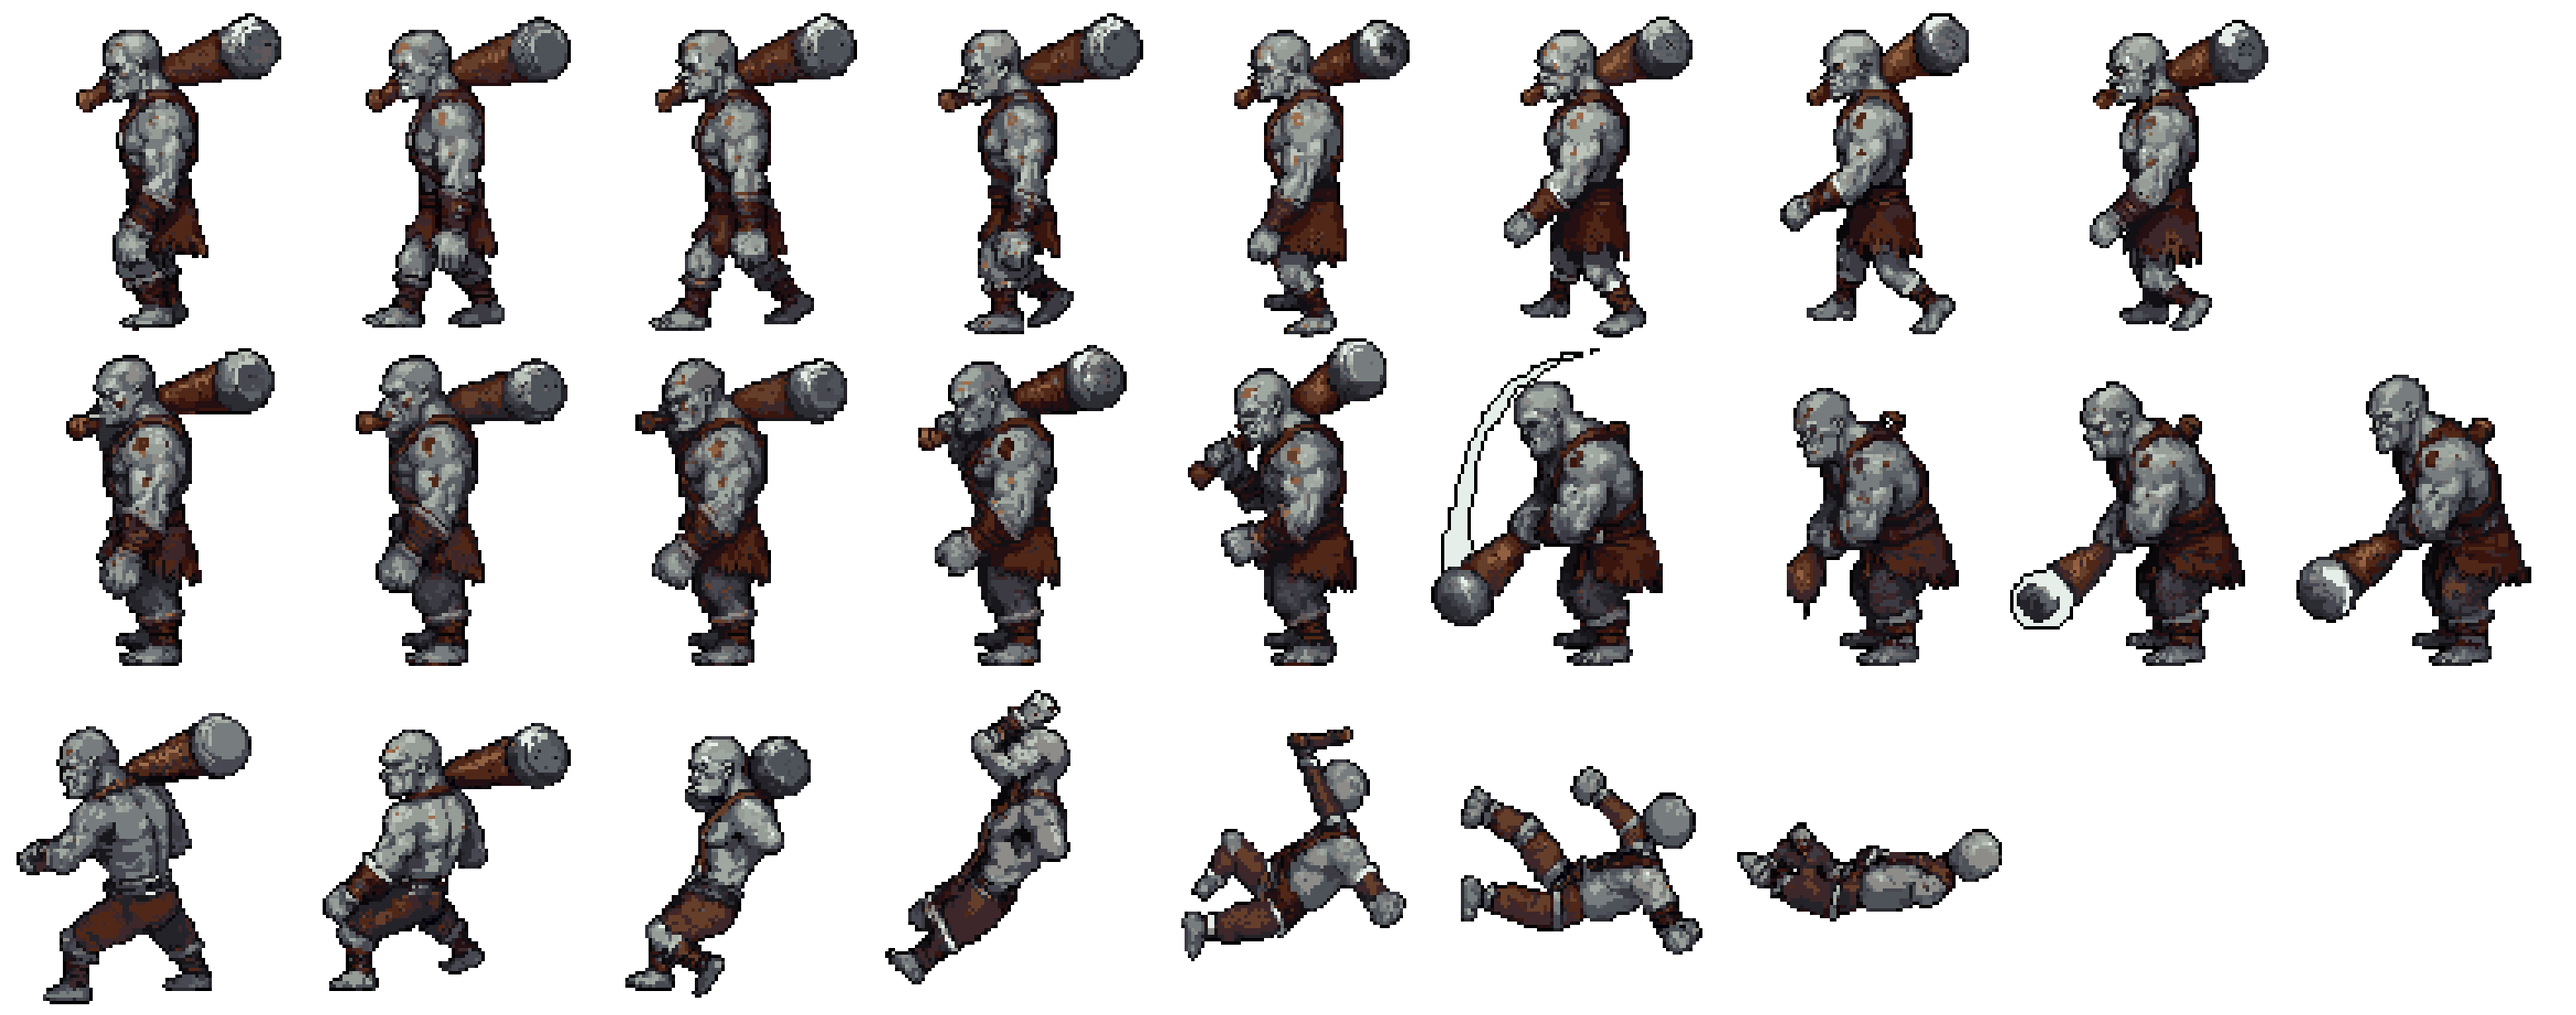
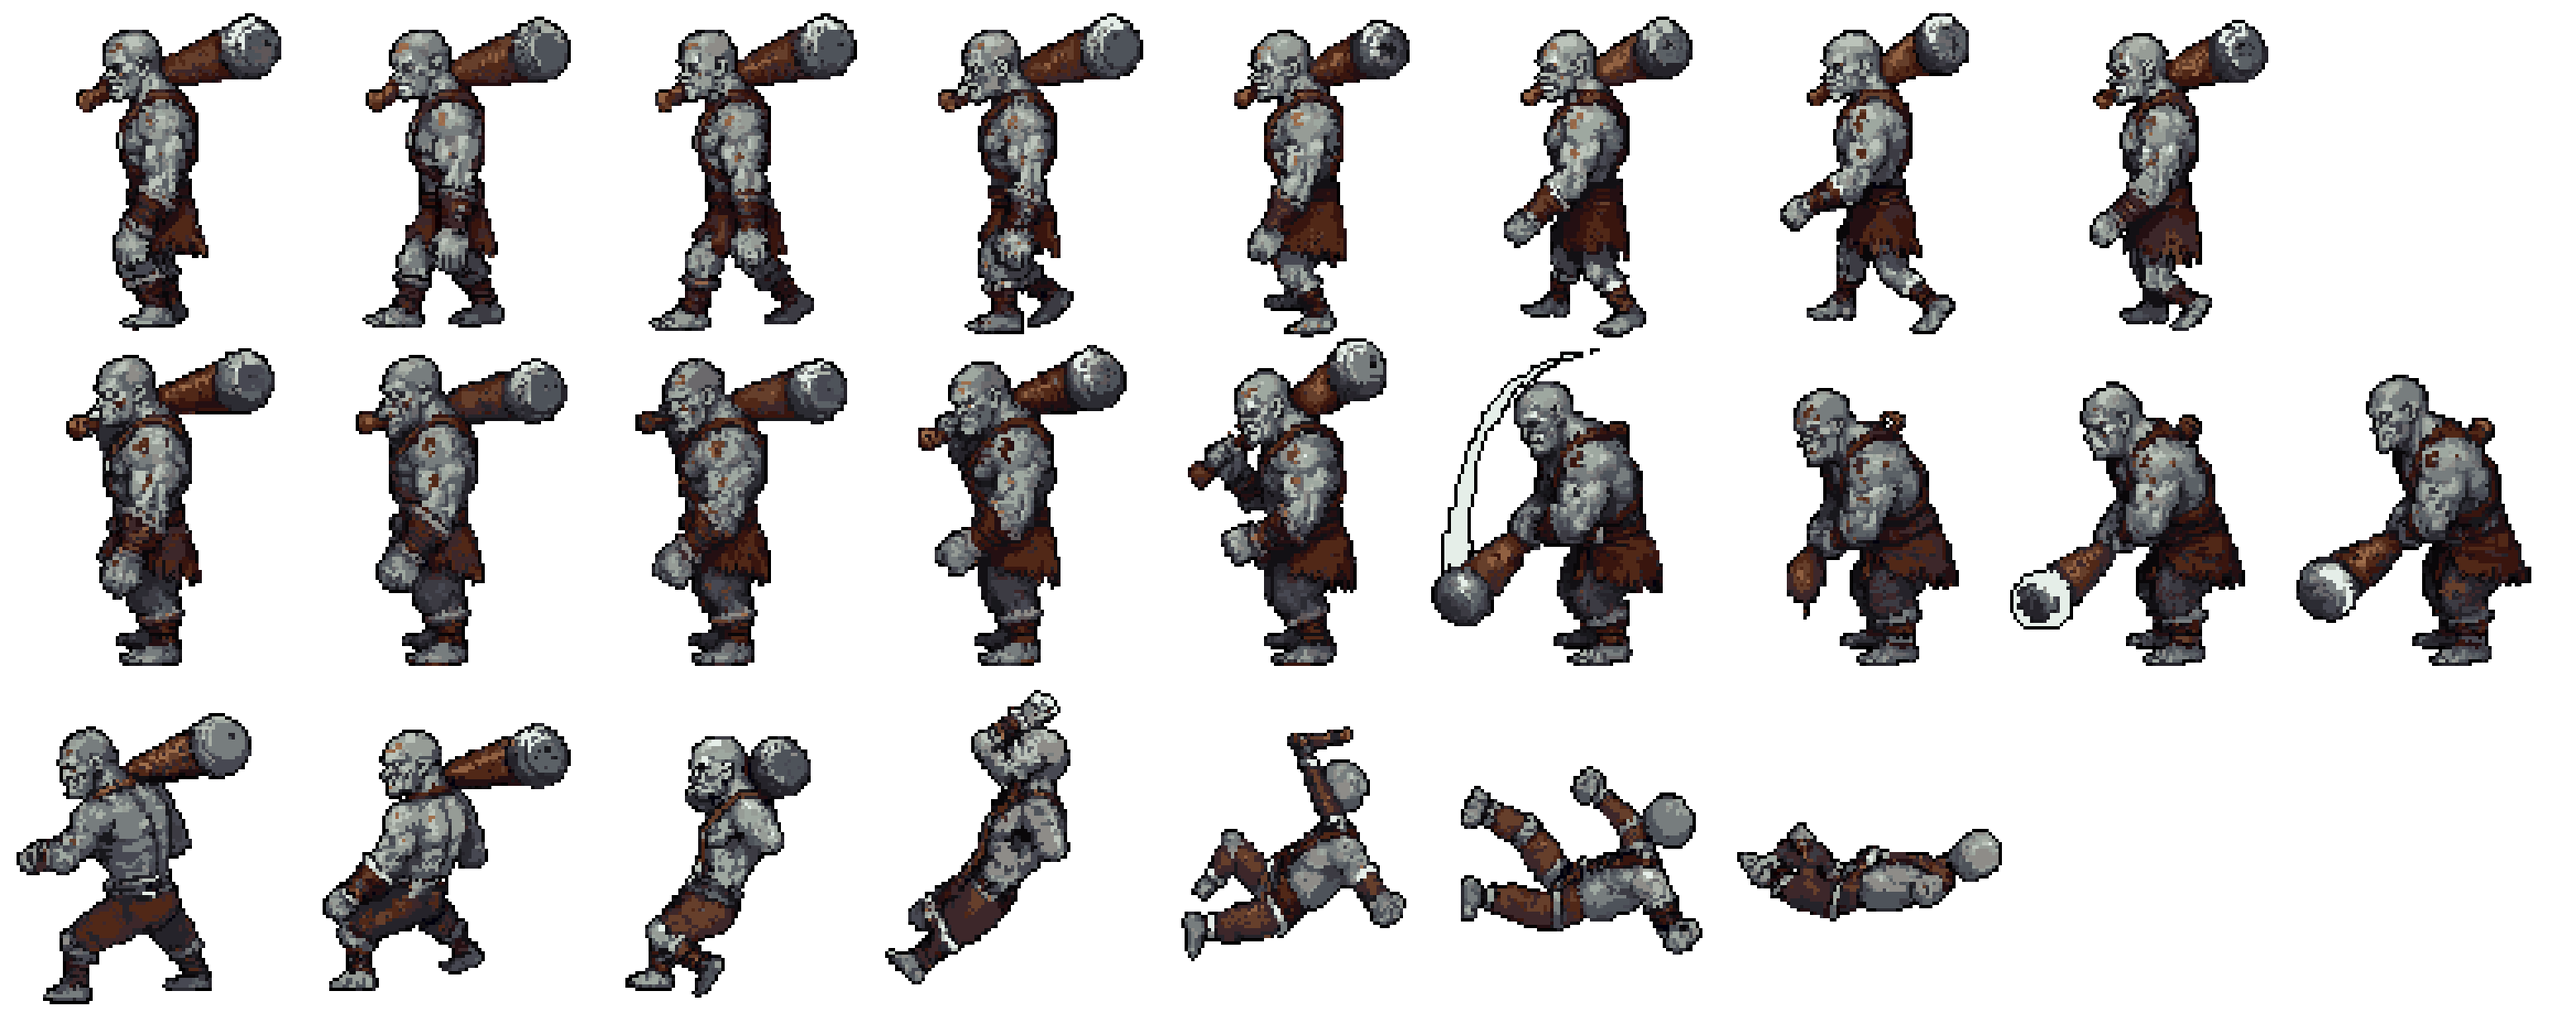
Yoğunluk eşitleme v2: güçlü kontrastlı bloklarda komşulardan ayrışan renk (silah, yay, göz vurguları korunur)
Claude-Session: https://claude.ai/code/session_01UDmPYyAuKDS6r7CGECjndN

diff --git a/motor-deneme-5b8e2f/uretim/yogunluk_esitle.py b/motor-deneme-5b8e2f/uretim/yogunluk_esitle.py
@@ -1,42 +1,62 @@
-# Savaş birimlerinin piksel yoğunluğunu kale/manzarayla eşitler (ekranda 1 sanat pikseli = 2 px).
-# Her kare kendi köşesinden BxB (varsayılan 4: olcek 0.5 ile ekranda 2 px) bloklara bölünür; blok rengi en sık görülen opak renk
-# (eşitlikte en koyu: kontur korunur), alfa çoğunlukla. blok aynı renkle doldurulur:
-# şerit boyutu, kare yerleri, footY/centerX değişmez.
+# Savaş birimlerinin piksel yoğunluğunu kale/manzarayla eşitler (olcek 0.5 ile ekranda 2 px).
+# Her kare kendi köşesinden BxB (varsayılan 4) bloklara bölünür.
+#  - Alfa: blok en az 1/3 doluysa opak (ince asa/yay kaybolmasın).
+#  - Renk: düz bloklarda en sık opak renk. Bloğun içinde güçlü parlaklık farkı varsa
+#    (silah ucu, göz, kenar ışığı) en sık 3 renkten komşu blokların ortalamasına göre
+#    en çok ayrışanı seçilir: vurgu ve ince ayrıntı korunur.
+#  - Kontur: siluet kenarındaki açık bloklar karenin en koyu rengine çekilir.
+# Şerit boyutu, kare yerleri, footY/centerX değişmez.
 import sys
 import numpy as np
 from PIL import Image
 from collections import Counter
+
+def lum(c): return 0.3 * int(c[0]) + 0.59 * int(c[1]) + 0.11 * int(c[2])
+
+def kare_isle(fr, B):
+    fh, fw = fr.shape[:2]
+    gh, gw = (fh + B - 1) // B, (fw + B - 1) // B
+    op = np.zeros((gh, gw), bool); ort = np.zeros((gh, gw)); bloklar = {}
+    for gy in range(gh):
+        for gx in range(gw):
+            blk = fr[gy*B:(gy+1)*B, gx*B:(gx+1)*B].reshape(-1, 4)
+            o = blk[blk[:, 3] > 127]
+            if len(o) == 0 or len(o) * 3 < len(blk): continue
+            op[gy, gx] = True; bloklar[(gy, gx)] = o
+            ort[gy, gx] = np.mean([lum(c) for c in o[:, :3]])
+    out = np.zeros_like(fr)
+    for (gy, gx), o in bloklar.items():
+        sayim = Counter(map(tuple, o[:, :3])).most_common()
+        ls = [lum(c) for c in o[:, :3]]
+        if max(ls) - min(ls) > 60 and len(sayim) > 1:
+            y0, y1, x0, x1 = max(0, gy-1), min(gh, gy+2), max(0, gx-1), min(gw, gx+2)
+            m = op[y0:y1, x0:x1].copy(); m[gy-y0, gx-x0] = False
+            komsu = ort[y0:y1, x0:x1][m].mean() if m.any() else ort[gy, gx]
+            aday = [k for k, n in sayim[:3] if n >= 2] or [sayim[0][0]]
+            renk = max(aday, key=lambda k: abs(lum(k) - komsu))
+        else:
+            en = sayim[0][1]
+            renk = min([k for k, n in sayim if n == en], key=lambda k: lum(k))
+        out[gy*B:(gy+1)*B, gx*B:(gx+1)*B] = (*renk, 255)
+    # kontur
+    if op.any():
+        g = out[::B, ::B]
+        L = g[..., :3].astype(int).sum(2)
+        koyu = g[op][np.argmin(L[op])][:3]
+        pad = np.pad(op, 1)
+        kenar = op & ~(pad[:-2, 1:-1] & pad[2:, 1:-1] & pad[1:-1, :-2] & pad[1:-1, 2:])
+        for gy, gx in zip(*np.where(kenar & (L > 210))):
+            out[gy*B:(gy+1)*B, gx*B:(gx+1)*B, :3] = koyu
+    out[:fh, :fw, 3] = np.where(out[:fh, :fw, 3] > 0, 255, 0)
+    return out[:fh, :fw]
+
 def isle(giris, cikis, fw, fh, B=4):
     a = np.array(Image.open(giris).convert('RGBA'))
     H, W = a.shape[:2]; out = np.zeros_like(a)
     for fy in range(0, H - fh + 1, fh):
         for fx in range(0, W - fw + 1, fw):
-            for y in range(fy, fy + fh, B):
-                for x in range(fx, fx + fw, B):
-                    blk = a[y:min(y+B, fy+fh), x:min(x+B, fx+fw)].reshape(-1, 4)
-                    op = blk[blk[:, 3] > 127]
-                    if len(op) * 3 < len(blk) or len(op) == 0:   # ince çizgiler (asa, yay) kaybolmasın: 1/3 dolu yeter
-                        continue
-                    c = Counter(map(tuple, op[:, :3])).most_common()
-                    en = c[0][1]
-                    adaylar = [k for k, n in c if n == en]
-                    renk = min(adaylar, key=lambda k: sum(int(v) for v in k))
-                    out[y:min(y+B, fy+fh), x:min(x+B, fx+fw)] = (*renk, 255)
-    # Kontur: siluet kenarındaki açık sanat pikselleri karenin en koyu konturuyla
-    for fy in range(0, H - fh + 1, fh):
-        for fx in range(0, W - fw + 1, fw):
-            fr = out[fy:fy+fh, fx:fx+fw]
-            g = fr[::B, ::B]
-            op = g[..., 3] > 0
-            if not op.any(): continue
-            lum = g[..., :3].astype(int).sum(2)
-            koyu = g[op][np.argmin(lum[op])][:3]
-            pad = np.pad(op, 1)
-            kenar = op & ~(pad[:-2, 1:-1] & pad[2:, 1:-1] & pad[1:-1, :-2] & pad[1:-1, 2:])
-            acik = kenar & (lum > 3 * 70)
-            for gy, gx in zip(*np.where(acik)):
-                fr[gy*B:(gy+1)*B, gx*B:(gx+1)*B, :3] = koyu
-    # Göz gibi küçük doygun vurgular: orijinal blokta doygun piksel varsa onu koru
+            out[fy:fy+fh, fx:fx+fw] = kare_isle(a[fy:fy+fh, fx:fx+fw], B)
     Image.fromarray(out).save(cikis)
+
 if __name__ == '__main__':
     isle(sys.argv[1], sys.argv[2], int(sys.argv[3]), int(sys.argv[4]), int(sys.argv[5]) if len(sys.argv) > 5 else 4)
